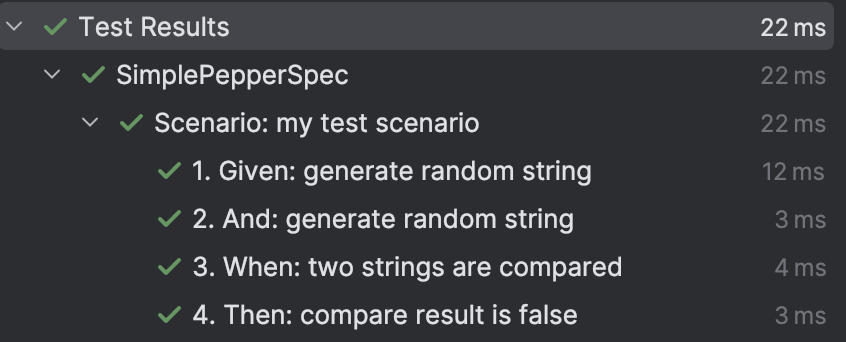
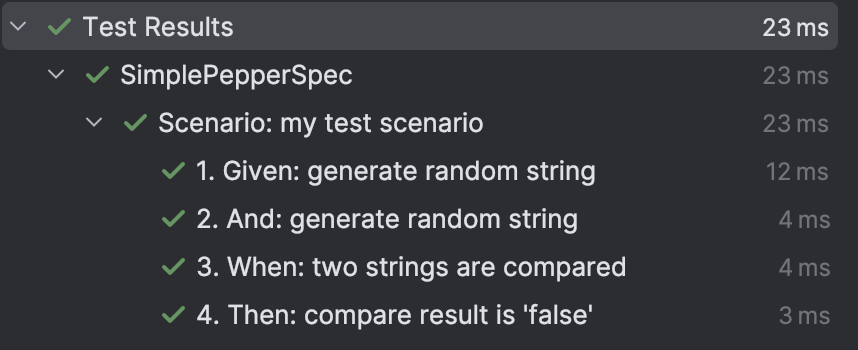
Substitute placeholder in a step name with the actual value

diff --git a/pepper-bdd-sample/src/test/kotlin/io/github/vooft/pepper/sample/LotOfStepsPepperSpec.kt b/pepper-bdd-sample/src/test/kotlin/io/github/vooft/pepper/sample/LotOfStepsPepperSpec.kt
@@ -16,17 +16,17 @@ class LotOfStepsPepperSpec :
             val compareResult = `two strings are compared`(firstRandom, secondRandom)
 
             Then
-            `compare result is {expected}`(compareResult, false)
-            `compare result is {expected}`(compareResult, false)
-            `compare result is {expected}`(compareResult, false)
-            `compare result is {expected}`(compareResult, false)
-            `compare result is {expected}`(compareResult, false)
-            `compare result is {expected}`(compareResult, false)
-            `compare result is {expected}`(compareResult, false)
-            `compare result is {expected}`(compareResult, false)
-            `compare result is {expected}`(compareResult, false)
-            `compare result is {expected}`(compareResult, false)
-            `compare result is {expected}`(compareResult, false)
-            `compare result is {expected}`(compareResult, false)
+            `compare result is '{expected}'`(compareResult, false)
+            `compare result is '{expected}'`(compareResult, false)
+            `compare result is '{expected}'`(compareResult, false)
+            `compare result is '{expected}'`(compareResult, false)
+            `compare result is '{expected}'`(compareResult, false)
+            `compare result is '{expected}'`(compareResult, false)
+            `compare result is '{expected}'`(compareResult, false)
+            `compare result is '{expected}'`(compareResult, false)
+            `compare result is '{expected}'`(compareResult, false)
+            `compare result is '{expected}'`(compareResult, false)
+            `compare result is '{expected}'`(compareResult, false)
+            `compare result is '{expected}'`(compareResult, false)
         }
     })

diff --git a/pepper-bdd-sample/src/test/kotlin/io/github/vooft/pepper/sample/TwoScenariosSpec.kt b/pepper-bdd-sample/src/test/kotlin/io/github/vooft/pepper/sample/TwoScenariosSpec.kt
@@ -16,7 +16,7 @@ class TwoScenariosSpec :
             val compareResult = `two strings are compared`(firstRandom, secondRandom)
 
             Then
-            `compare result is {expected}`(compareResult, false)
+            `compare result is '{expected}'`(compareResult, false)
         }
 
         Scenario("second scenario") {
@@ -28,6 +28,6 @@ class TwoScenariosSpec :
             val compareResult = `two strings are compared`(firstRandom, secondRandom)
 
             Then
-            `compare result is {expected}`(compareResult, false)
+            `compare result is '{expected}'`(compareResult, false)
         }
     })

diff --git a/pepper-bdd-sample/src/test/kotlin/io/github/vooft/pepper/sample/Steps.kt b/pepper-bdd-sample/src/test/kotlin/io/github/vooft/pepper/sample/Steps.kt
@@ -31,7 +31,7 @@ suspend fun `two strings are compared`(first: String, second: String): CompareRe
 }
 
 @Step
-suspend fun <T> `compare result is {expected}`(compareResult: CompareResult<T>, expected: Boolean) {
+suspend fun <T> `compare result is '{expected}'`(compareResult: CompareResult<T>, expected: Boolean) {
     delay(1)
     if (compareResult.result != expected) {
         throw AssertionError("Expected $expected, but got ${compareResult.result}")

diff --git a/pepper-bdd-sample/src/test/kotlin/io/github/vooft/pepper/sample/ExamplesSpec.kt b/pepper-bdd-sample/src/test/kotlin/io/github/vooft/pepper/sample/ExamplesSpec.kt
@@ -19,7 +19,7 @@ class ExamplesSpec :
             val compareResult = `two ints are compared`(multiplication, example.result)
 
             Then
-            `compare result is {expected}`(compareResult, example.compareResult)
+            `compare result is '{expected}'`(compareResult, example.compareResult)
         }
     })
 

diff --git a/pepper-bdd-sample/src/test/kotlin/io/github/vooft/pepper/sample/FailingInTheBeginningPepperSpec.kt b/pepper-bdd-sample/src/test/kotlin/io/github/vooft/pepper/sample/FailingInTheBeginningPepperSpec.kt
@@ -21,6 +21,6 @@ class FailingInTheBeginningPepperSpec :
             val compareResult = `two strings are compared`(firstRandom, secondRandom)
 
             Then
-            `compare result is {expected}`(compareResult, true)
+            `compare result is '{expected}'`(compareResult, true)
         }
     })

diff --git a/pepper-bdd-sample/src/test/kotlin/io/github/vooft/pepper/sample/SimplePepperSpec.kt b/pepper-bdd-sample/src/test/kotlin/io/github/vooft/pepper/sample/SimplePepperSpec.kt
@@ -16,6 +16,6 @@ class SimplePepperSpec :
             val compareResult = `two strings are compared`(firstRandom, secondRandom)
 
             Then
-            `compare result is {expected}`(compareResult, false)
+            `compare result is '{expected}'`(compareResult, false)
         }
     })

diff --git a/pepper-bdd-sample/src/test/kotlin/io/github/vooft/pepper/sample/FailingPepperSpec.kt b/pepper-bdd-sample/src/test/kotlin/io/github/vooft/pepper/sample/FailingPepperSpec.kt
@@ -18,6 +18,6 @@ class FailingPepperSpec :
             val compareResult = `two strings are compared`(firstRandom, secondRandom)
 
             Then
-            `compare result is {expected}`(compareResult, true)
+            `compare result is '{expected}'`(compareResult, true)
         }
     })

diff --git a/README.md b/README.md
@@ -37,7 +37,7 @@ class SimplePepperSpec : PepperSpec({
 // string inside curly braces will be replaced with actual value from the arguments, if there is no match, it will stay as-is 
 // it is possible to use dollar sign in a method name, but intellij can't handle it properly and will show that the method is not used, even though it is
 @Step
-fun `compare result is {expected}`(compareResult: CompareResult, expected: Boolean) {
+fun `compare result is '{expected}'`(compareResult: CompareResult, expected: Boolean) {
     assert(compareResult.result == expected) { "Expected $expected, but got ${compareResult.result}" }
 }
 
@@ -52,7 +52,7 @@ class SimplePepperSpec : PepperSpec({
 
         Then
         // just call the method normally, the plugin will replace the placeholder with the actual value
-        `compare result is {expected}`(compareResult, false)
+        `compare result is '{expected}'`(compareResult, false)
     }
 })
 ```
